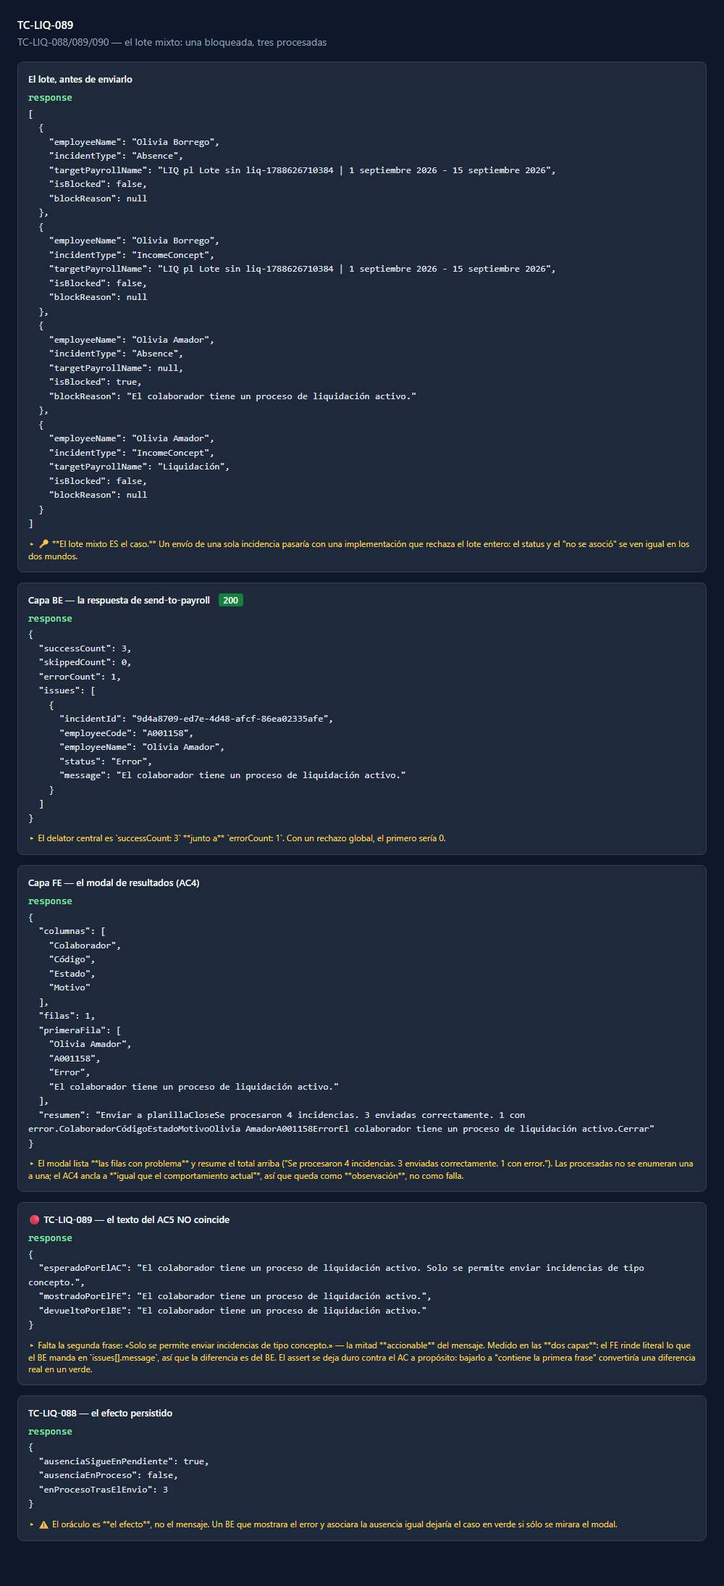
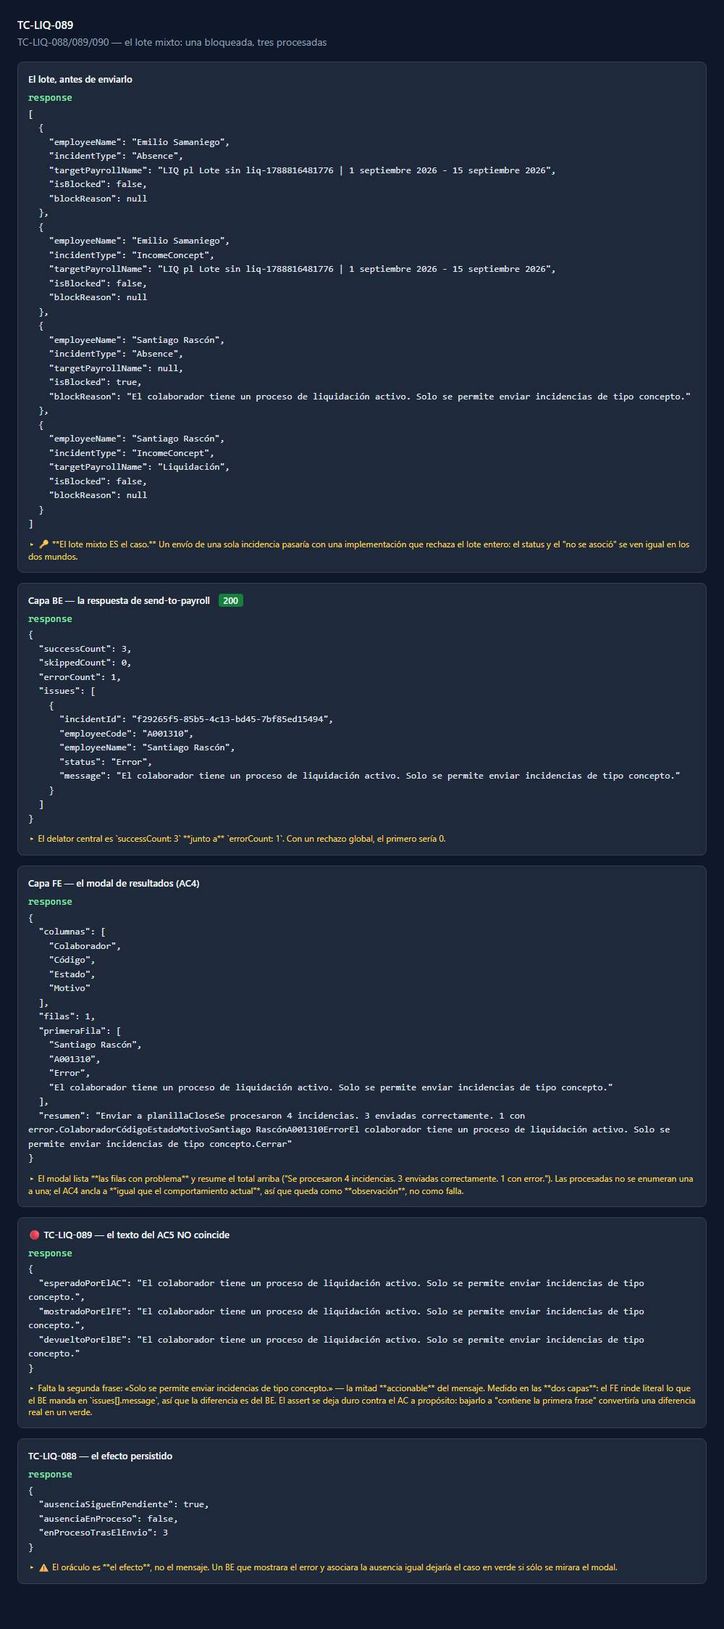
report(v16.5.0): TC-LIQ-089 pasa a verde tras REBU-6006 — 99 de 100
El motivo del bloqueo ya trae las dos frases del AC5, en el modal y en
issues[0].message. Se re-corrio el spec SIN modificarlo, para que el
veredicto viniera del mismo oraculo que produjo el rojo.

Y se pone al dia la bandeja del analisis REBU-5966, que habia quedado
desfasada: los 11 escenarios sin automatizar van a Backlog y no a
Finalizada, el bloqueo de TC-LIQ-082/083 esta resuelto, y el unico
defecto vivo es REBU-6027.

diff --git a/index.html b/index.html
@@ -124,18 +124,18 @@
 </header>
 <div class="bandeja">
   <div class="summary">
-    <div class="card pass"><div class="card-value">98</div><div class="card-label">Pasaron</div></div>
-    <div class="card fail"><div class="card-value">2</div><div class="card-label">Fallaron</div></div>
+    <div class="card pass"><div class="card-value">99</div><div class="card-label">Pasaron</div></div>
+    <div class="card fail"><div class="card-value">1</div><div class="card-label">Fallaron</div></div>
     <div class="card total"><div class="card-value">100</div><div class="card-label">Total <span style="font-size:10px;opacity:.75">(2 an&#225;lisis: 5966 &middot; 5969)</span></div></div>
     <div class="card time"><div class="card-value">~36 m</div><div class="card-label">Duraci&#243;n</div></div>
   </div>
 
 <div style="max-width:860px;margin:18px auto 0;padding:12px 16px;background:#fff6e5;border:1px solid #e8cf9a;border-radius:10px">
-  <div style="font-size:11px;font-weight:700;color:#8a5a12;text-transform:uppercase;letter-spacing:.5px;margin-bottom:6px">&#9888;&#65039; Release EN CURSO &mdash; 100 casos de los dos an&#225;lisis de la &#233;pica, con 2 rojos. Lo que falta est&#225; listado abajo</div>
+  <div style="font-size:11px;font-weight:700;color:#8a5a12;text-transform:uppercase;letter-spacing:.5px;margin-bottom:6px">&#9888;&#65039; Release EN CURSO &mdash; 100 casos de los dos an&#225;lisis de la &#233;pica, con 1 rojo. Lo que qued&#243; sin automatizar est&#225; listado abajo</div>
   <div style="font-size:11px;color:#6b4710;line-height:1.7">
-    &#201;ste <strong>no es un release cerrado</strong>. La &#233;pica <a class="jira-link" href="https://rebu.atlassian.net/browse/REBU-5629" target="_blank" rel="noopener">REBU-5629</a> &mdash;que elimina el estado &ldquo;Salida pendiente&rdquo; y deja al colaborador <strong>Activo mientras se liquida</strong>&mdash; se desglos&#243; en <strong>31 escenarios / 96 casos</strong> sobre las 9 HU con QA asignado a Jessica. Van <strong>21 escenarios y 56 casos: 54 verdes y 2 rojos</strong>. Los dos rojos son reales y est&#225;n explicados en su fila &mdash; ninguno se baj&#243; a verde para que la cuenta quedara limpia. Se publica parcial a prop&#243;sito, para que la evidencia se acumule por corrida y no de golpe al final.
+    &#201;ste <strong>no es un release cerrado</strong>. La &#233;pica <a class="jira-link" href="https://rebu.atlassian.net/browse/REBU-5629" target="_blank" rel="noopener">REBU-5629</a> &mdash;que elimina el estado &ldquo;Salida pendiente&rdquo; y deja al colaborador <strong>Activo mientras se liquida</strong>&mdash; se desglos&#243; en <strong>31 escenarios / 96 casos</strong> sobre las 9 HU con QA asignado a Jessica. Van <strong>20 escenarios y 56 casos: 55 verdes y 1 rojo</strong>, y con eso el ciclo de automatizaci&#243;n de este an&#225;lisis <strong>se cierra</strong>. El rojo que queda es real y est&#225; explicado en su fila &mdash; no se baj&#243; a verde para que la cuenta quedara limpia. Y el que estuvo rojo hasta ayer, <code>TC-LIQ-089</code>, <strong>se re-corri&#243; tras el fix con el spec sin modificar</strong>: no se hered&#243; el verde del estado del ticket del defecto.
     <br><br>
-    &#128203; <strong>Cubierto hasta ahora:</strong> <a class="jira-link" href="https://rebu.atlassian.net/browse/REBU-5634" target="_blank" rel="noopener">REBU-5634</a> completa (edici&#243;n del perfil durante la liquidaci&#243;n, 15 casos), <a class="jira-link" href="https://rebu.atlassian.net/browse/REBU-5636" target="_blank" rel="noopener">REBU-5636</a> <strong>completa</strong> (c&#237;clicos, 24 de 24), <a class="jira-link" href="https://rebu.atlassian.net/browse/REBU-5637" target="_blank" rel="noopener">REBU-5637</a> <strong>completa</strong> (incidencias hacia la liquidaci&#243;n, 11 de 11 &mdash; 10 verdes y 1 rojo), <a class="jira-link" href="https://rebu.atlassian.net/browse/REBU-5644" target="_blank" rel="noopener">REBU-5644</a> (Mi Perfil no expone la fecha, 3 de 4) y <a class="jira-link" href="https://rebu.atlassian.net/browse/REBU-5785" target="_blank" rel="noopener">REBU-5785</a> (la pill, 2).<br><br>&#128273; <strong>Se destrabaron los dos escenarios que depend&#237;an de una credencial.</strong> QA facilit&#243; un usuario colaborador y le dej&#243; <strong>un solo rol</strong>, que es justo lo que exige la regla del BE. Con eso <strong>QAUTO-990 y QAUTO-991</strong> pasaron de bloqueados a ejecutados. Esos escenarios <strong>desvinculan a ese usuario y lo restauran</strong> en un <code>finally</code> con verificaci&#243;n &mdash; dejarlo desvinculado romper&#237;a la credencial para toda la suite.<br><br>&#129001; <strong>La otra mitad de la &#233;pica &mdash; las 5 HU con QA asignado a Rollffin</strong> (<a class="jira-link" href="https://rebu.atlassian.net/browse/REBU-5969" target="_blank" rel="noopener">REBU-5969</a>): <strong>38 casos, los 38 verdes</strong>. Cubre el modelo de estados completo &mdash;los cuatro caminos de elegibilidad, el prorrateo y la reversi&#243;n&mdash;, el subtab Desvinculaci&#243;n, la pasada de UI del perfil y el filtro de Estado de los seis reportes, que ven&#237;a con <strong>cobertura cero</strong>. <strong>REBU-5630, 5631, 5632 y 5788 quedan certificadas.</strong> De ah&#237; salieron dos mediciones que cambian c&#243;mo se lee la &#233;pica: el peor modo de falla de REBU-5788 &mdash;que un reporte con la etiqueta retirada mostrara <em>toda</em> la poblaci&#243;n, inactivos incluidos, en una vista con salarios&mdash; qued&#243; <strong>descartado con n&#250;meros</strong> (da 1145, el conjunto Activo, no 1190); y la l&#237;nea base del backfill de REBU-5783 ya est&#225; tomada en <strong>producci&#243;n co.21</strong>: 41 candidatos con su liquidaci&#243;n concepto por concepto y el Excel del finiquito. Esa HU se certifica el d&#237;a del pase, no antes. Un defecto reportado: <a class="jira-link" href="https://rebu.atlassian.net/browse/REBU-6007" target="_blank" rel="noopener">REBU-6007</a>.<br><br>&#128308; <strong>Lo que NO est&#225; cubierto todav&#237;a, con su ticket:</strong> de REBU-5636 falta <strong>medio escenario</strong> &mdash; <a class="jira-link" href="https://rebu.atlassian.net/browse/QAUTO-984" target="_blank" rel="noopener">QAUTO-984</a> entreg&#243; 2 de sus 4 casos: <code>TC-LIQ-084</code> (no admite ajuste) y <code>TC-LIQ-137</code> (no admite borrado) est&#225;n verdes, pero <code>TC-LIQ-082</code> y <code>TC-LIQ-083</code> (<strong>pausar / finalizar</strong>, AC8) siguen sin or&#225;culo: no se logr&#243; capturar el contrato de cambio de estado &mdash;detalle abajo&mdash;. De REBU-5637 faltan 3 escenarios (<a class="jira-link" href="https://rebu.atlassian.net/browse/QAUTO-987" target="_blank" rel="noopener">QAUTO-987</a>, <a class="jira-link" href="https://rebu.atlassian.net/browse/QAUTO-988" target="_blank" rel="noopener">988</a>, <a class="jira-link" href="https://rebu.atlassian.net/browse/QAUTO-989" target="_blank" rel="noopener">989</a>). Y sin arrancar: <a class="jira-link" href="https://rebu.atlassian.net/browse/REBU-5633" target="_blank" rel="noopener">REBU-5633</a> (rec&#225;lculo, 6 escenarios), <a class="jira-link" href="https://rebu.atlassian.net/browse/REBU-5635" target="_blank" rel="noopener">5635</a>, <a class="jira-link" href="https://rebu.atlassian.net/browse/REBU-5789" target="_blank" rel="noopener">5789</a> y <a class="jira-link" href="https://rebu.atlassian.net/browse/REBU-5816" target="_blank" rel="noopener">5816</a>.<br><br>&#128679; <strong>Lo que sigue bloqueado, y por qu&#233;.</strong> <strong><code>TC-LIQ-082</code> y <code>TC-LIQ-083</code></strong> necesitan del desarrollo la <strong>ruta y el cuerpo del cambio de estado de un c&#237;clico</strong> (pausar / finalizar). Lo medido, para no repetir camino: el detalle de la fila en el perfil ofrece <strong>s&#243;lo &ldquo;Editar&rdquo;</strong>, y ese modal trae concepto, frecuencia, per&#237;odo y rangos &mdash;ning&#250;n control de estado&mdash;; <code>PATCH /people-cyclics/{id}</code> con <code>{status:&quot;Paused&quot;}</code> responde <strong>204 y NO persiste</strong> (sigue <code>Active</code>), as&#237; que un caso que mirara el 204 <strong>dar&#237;a verde sin pausar nada</strong>; y <code>/people-deductions/{handle}/status</code> y variantes dan 404. Los tres sondeos quedaron versionados con lo medido.<br><br>El <strong>AC5 de REBU-5816</strong> contradice al commit <code>4fe39d629</code> &mdash;las dos cosas no pueden ser ciertas&mdash; y necesita decisi&#243;n de producto antes de poder escribir su or&#225;culo. <strong><code>TC-LIQ-098</code></strong> ya <strong>no</strong> est&#225; bloqueado por credencial sino por el <strong>tipo de contrataci&#243;n</strong>: el usuario disponible es <em>Empleado</em>, y el AC2 dice que <code>dateOfLeaving</code> y <code>contractorEndDate</code> son <strong>dos campos distintos</strong> &mdash; hace falta un <strong>contratista de rol &#250;nico</strong>. Y la <strong>rama fuerte de QAUTO-991</strong> &mdash;colaborador de <strong>doble rol</strong>, la &#250;nica que a&#237;sla el gate del FE&mdash; espera un usuario con un segundo rol; el spec ya la detecta y la reporta sola al re-ejecutarse.
+    &#128203; <strong>Cubierto hasta ahora:</strong> <a class="jira-link" href="https://rebu.atlassian.net/browse/REBU-5634" target="_blank" rel="noopener">REBU-5634</a> completa (edici&#243;n del perfil durante la liquidaci&#243;n, 15 casos), <a class="jira-link" href="https://rebu.atlassian.net/browse/REBU-5636" target="_blank" rel="noopener">REBU-5636</a> <strong>completa</strong> (c&#237;clicos, 24 de 24), <a class="jira-link" href="https://rebu.atlassian.net/browse/REBU-5637" target="_blank" rel="noopener">REBU-5637</a> <strong>completa</strong> (incidencias hacia la liquidaci&#243;n, 11 de 11, <strong>las 11 verdes</strong>), <a class="jira-link" href="https://rebu.atlassian.net/browse/REBU-5644" target="_blank" rel="noopener">REBU-5644</a> (Mi Perfil no expone la fecha, 3 de 4) y <a class="jira-link" href="https://rebu.atlassian.net/browse/REBU-5785" target="_blank" rel="noopener">REBU-5785</a> (la pill, 2).<br><br>&#128273; <strong>Se destrabaron los dos escenarios que depend&#237;an de una credencial.</strong> QA facilit&#243; un usuario colaborador y le dej&#243; <strong>un solo rol</strong>, que es justo lo que exige la regla del BE. Con eso <strong>QAUTO-990 y QAUTO-991</strong> pasaron de bloqueados a ejecutados. Esos escenarios <strong>desvinculan a ese usuario y lo restauran</strong> en un <code>finally</code> con verificaci&#243;n &mdash; dejarlo desvinculado romper&#237;a la credencial para toda la suite.<br><br>&#129001; <strong>La otra mitad de la &#233;pica &mdash; las 5 HU con QA asignado a Rollffin</strong> (<a class="jira-link" href="https://rebu.atlassian.net/browse/REBU-5969" target="_blank" rel="noopener">REBU-5969</a>): <strong>38 casos, los 38 verdes</strong>. Cubre el modelo de estados completo &mdash;los cuatro caminos de elegibilidad, el prorrateo y la reversi&#243;n&mdash;, el subtab Desvinculaci&#243;n, la pasada de UI del perfil y el filtro de Estado de los seis reportes, que ven&#237;a con <strong>cobertura cero</strong>. <strong>REBU-5630, 5631, 5632 y 5788 quedan certificadas.</strong> De ah&#237; salieron dos mediciones que cambian c&#243;mo se lee la &#233;pica: el peor modo de falla de REBU-5788 &mdash;que un reporte con la etiqueta retirada mostrara <em>toda</em> la poblaci&#243;n, inactivos incluidos, en una vista con salarios&mdash; qued&#243; <strong>descartado con n&#250;meros</strong> (da 1145, el conjunto Activo, no 1190); y la l&#237;nea base del backfill de REBU-5783 ya est&#225; tomada en <strong>producci&#243;n co.21</strong>: 41 candidatos con su liquidaci&#243;n concepto por concepto y el Excel del finiquito. Esa HU se certifica el d&#237;a del pase, no antes. Un defecto reportado: <a class="jira-link" href="https://rebu.atlassian.net/browse/REBU-6007" target="_blank" rel="noopener">REBU-6007</a>.<br><br>&#128308; <strong>Lo que qued&#243; sin automatizar, con su ticket:</strong> <strong>11 de los 31 escenarios</strong>, todos devueltos a <strong>Backlog</strong> &mdash;no a Finalizada&mdash; a prop&#243;sito: marcar <em>Listo</em> un escenario que nunca se ejecut&#243; lo vuelve indistinguible de cobertura real dentro de unos meses. Son <a class="jira-link" href="https://rebu.atlassian.net/browse/REBU-5633" target="_blank" rel="noopener">REBU-5633</a> (rec&#225;lculo y men&#250; de tres puntos, 6 escenarios), <a class="jira-link" href="https://rebu.atlassian.net/browse/REBU-5816" target="_blank" rel="noopener">5816</a> (matriz de destino de la incidencia, 3), <a class="jira-link" href="https://rebu.atlassian.net/browse/REBU-5635" target="_blank" rel="noopener">5635</a> y <a class="jira-link" href="https://rebu.atlassian.net/browse/REBU-5789" target="_blank" rel="noopener">5789</a> (1 cada una). Las otras cinco HU quedan <strong>completas</strong>: 5634, 5636, 5637, 5644 y 5785. La cuenta completa de la deuda est&#225; en <a class="jira-link" href="https://rebu.atlassian.net/browse/REBU-5966" target="_blank" rel="noopener">REBU-5966</a>.<br><br>&#9989; <strong>El bloqueo de <code>TC-LIQ-082</code> y <code>TC-LIQ-083</code> se resolvi&#243;, y los dos quedaron verdes.</strong> El contrato que faltaba es <code>PATCH /people-cyclics/{transactionId}/change-status</code> con <code>{reason, status}</code>, el estado <strong>num&#233;rico</strong>. No es <code>PATCH /people-cyclics/{id}</code> a secas: esa ruta acepta <code>{status:&quot;Paused&quot;}</code>, responde <strong>204 y NO persiste</strong> (sigue <code>Active</code>), as&#237; que un caso que mirara ese 204 <strong>habr&#237;a dado verde sin pausar nada</strong>. Y el AC8 se cumple <strong>literalmente</strong>: la l&#237;nea sale <strong>al recalcular</strong>, no antes &mdash; medido en tres momentos ($50 &rarr; pausado sin recalcular, $50 &rarr; pausado y recalculado, ya no est&#225;).<br><br>&#128308; <strong>El &#250;nico defecto vivo de esta mitad de la &#233;pica es <a class="jira-link" href="https://rebu.atlassian.net/browse/REBU-6027" target="_blank" rel="noopener">REBU-6027</a></strong>, y est&#225; rotulado <code>[MAIN]</code>, no UAT: la Fecha de Egreso se le muestra al propio colaborador cuando su rol no es Colaborador (incumple el AC1 de REBU-5644). Los otros siete &mdash;5982, 5983, 5984, 6002, 6004, 6006 y 6009&mdash; est&#225;n corregidos; <strong>REBU-6004</strong> (recalcular con un c&#237;clico de PGR devolv&#237;a 500) se <strong>re-verific&#243; el 07-09</strong> con el sondeo original sin tocarlo: las cuatro variantes en 204.<br><br>El <strong>AC5 de REBU-5816</strong> contradice al commit <code>4fe39d629</code> &mdash;las dos cosas no pueden ser ciertas&mdash; y necesita decisi&#243;n de producto antes de poder escribir su or&#225;culo. <strong><code>TC-LIQ-098</code></strong> ya <strong>no</strong> est&#225; bloqueado por credencial sino por el <strong>tipo de contrataci&#243;n</strong>: el usuario disponible es <em>Empleado</em>, y el AC2 dice que <code>dateOfLeaving</code> y <code>contractorEndDate</code> son <strong>dos campos distintos</strong> &mdash; hace falta un <strong>contratista de rol &#250;nico</strong>. Y la <strong>rama fuerte de QAUTO-991</strong> &mdash;colaborador de <strong>doble rol</strong>, la &#250;nica que a&#237;sla el gate del FE&mdash; espera un usuario con un segundo rol; el spec ya la detecta y la reporta sola al re-ejecutarse.
   </div>
 </div>
 
@@ -308,8 +308,8 @@
 <tr class="detail-row"><td colspan="3"><table class="case-steps"><tr><th>Documentado en</th><td><a class="jira-link" href="https://rebu.atlassian.net/browse/QAUTO-986" target="_blank" rel="noopener">QAUTO-986</a> &middot; caso <code>TC-LIQ-087</code> &middot; <em>E2E-INT-016</em></td></tr><tr><th>Precondiciones</th><td>La misma liquidación de TC-LIQ-086, con la incidencia ya enviada.</td></tr><tr><th>Regla evaluada</th><td>AC1, textual: <em>&ldquo;igual que cualquier otro concepto agregado manualmente, <strong>sin ninguna marca</strong>&rdquo;</em>. Es <strong>lo contrario</strong> del ícono del cíclico (<code>E2E-INT-014</code>), que sí debe marcarse.</td></tr><tr><th>Setup</th><td>Ninguno adicional.</td></tr><tr><th>Pasos</th><td>1. Barrer <strong>todas</strong> las claves y valores de la línea buscando cualquiera que delate procedencia (<code>/incidenc|incident/i</code>).<br>2. Verificar que <code>isCyclic</code> sea <code>false</code> &mdash; si llegara <code>true</code>, la UI le pondría el ícono del cíclico, que es justo la marca que el AC prohíbe.</td></tr><tr><th>Resultado esperado</th><td>Cero marcas.</td></tr><tr><th>Resultado obtenido</th><td>Marcas encontradas: <strong><code>[]</code></strong> &middot; <code>isCyclic: false</code>.</td></tr><tr><th>Nota</th><td>⚠ <strong>Límite del oráculo, dicho:</strong> esto prueba que no hay marca <strong>a nivel de campo</strong>. La paridad exacta contra un concepto agregado <em>a mano</em> exigiría crear uno manual y comparar, y ese endpoint todavía no está en la suite.<br><br>Tiene consecuencia aguas abajo: por la tabla de preservación, esta línea debe preservarse íntegra al recalcular &mdash; ese caso es <code>TC-LIQ-049</code> y <strong>depende de este escenario</strong> para su setup.</td></tr><tr><th>Evidencia</th><td><div style="display:flex;gap:12px;flex-wrap:wrap;padding:4px 0"><div style="flex:1;min-width:220px"><div style="font-size:10px;font-weight:700;color:#284b44;letter-spacing:.5px;text-transform:uppercase;margin-bottom:6px">01 &mdash; TC-LIQ-086/087 — la incidencia de Concepto aterriza en la liquidación 1253, sin marca</div><img src="assets/v16.5.0/uat/TC-LIQ-087/01.jpg" style="max-width:100%;border-radius:6px;border:1px solid #d4e8d0;box-shadow:0 1px 4px rgba(0,0,0,.08)" /></div></div></td></tr><tr><th>Status</th><td><span class="badge-pass">PASS</span></td></tr></table></td></tr>
 <tr class="test-row" onclick="toggleDetail(this)"><td class="test-id">TC-LIQ-088</td><td><div class="test-name">La incidencia de <strong>Ausencia</strong> de un colaborador en liquidaci&#243;n <strong>se bloquea</strong></div><div class="test-tags"><span class="tag tag-val">@api</span><span class="tag tag-val">@ui</span><span class="tag tag-val">@liquidaciones</span><span class="tag tag-val">@incidencias</span><span class="tag tag-val">@critical</span></div></td><td class="status-cell"><span class="badge-pass">PASS</span></td></tr>
 <tr class="detail-row"><td colspan="3"><table class="case-steps"><tr><th>Documentado en</th><td><a class="jira-link" href="https://rebu.atlassian.net/browse/QAUTO-987" target="_blank" rel="noopener">QAUTO-987</a> &middot; caso <code>TC-LIQ-088</code> &middot; <em>E2E-INT-017</em></td></tr><tr><th>Precondici&#243;n</th><td>Un lote <strong>mixto</strong> de 4 incidencias: colaborador <em>con</em> liquidaci&#243;n (Concepto + Ausencia) y colaborador <em>sin</em> liquidaci&#243;n (Concepto + Ausencia).</td></tr><tr><th>Regla evaluada</th><td>REBU-5637 <strong>AC2</strong>: s&#243;lo las incidencias de tipo <strong>Concepto</strong> llegan a una liquidaci&#243;n; las de <strong>Ausencia</strong> se rechazan.</td></tr><tr><th>&#9888;&#65039; La precondici&#243;n que ya dio un resultado falso</th><td>El tipo de ausencia tiene que <strong>&ldquo;Afectar planilla&rdquo;</strong> (<code>deductsWorkedDays</code>). Con uno que no, la incidencia <strong>nunca llega a Preregistradas</strong> y &ldquo;no se asoci&#243;&rdquo; ser&#237;a cierto <strong>por el motivo equivocado</strong>. En la empresa 2 s&#243;lo <em>Incapacidad</em> lo cumple.</td></tr><tr><th>&#128273; El or&#225;culo es el EFECTO, no el mensaje</th><td>No se conforma con leer el error: comprueba que la ausencia <strong>siga en Pendiente</strong> y <strong>no</strong> haya pasado a &ldquo;En proceso&rdquo;. Un BE que mostrara el mensaje y la asociara igual dejar&#237;a el caso en verde si s&#243;lo se mirara el texto del modal.</td></tr><tr><th>Resultado obtenido</th><td>La ausencia bloqueada <strong>sigue en Pendiente</strong> con <code>isBlocked: true</code>; <strong>no</strong> aparece en &ldquo;En proceso&rdquo;. Las otras <strong>tres s&#237;</strong> pasaron &#9989;.</td></tr><tr><th>Status</th><td><span class="badge-pass">PASS</span></td></tr></table></td></tr>
-<tr class="test-row" onclick="toggleDetail(this)"><td class="test-id">TC-LIQ-089</td><td><div class="test-name">El motivo mostrado <strong>no coincide con el texto del AC</strong>: falta la segunda frase</div><div class="test-tags"><span class="tag tag-val">@ui</span><span class="tag tag-val">@liquidaciones</span><span class="tag tag-val">@incidencias</span></div></td><td class="status-cell"><span class="badge-fail">FAIL</span></td></tr>
-<tr class="detail-row"><td colspan="3"><table class="case-steps"><tr><th>Documentado en</th><td><a class="jira-link" href="https://rebu.atlassian.net/browse/QAUTO-987" target="_blank" rel="noopener">QAUTO-987</a> &middot; caso <code>TC-LIQ-089</code> &middot; <em>E2E-INT-017</em></td></tr><tr><th>Regla evaluada</th><td>REBU-5637 <strong>AC5</strong>: el motivo es <strong>un &#250;nico mensaje</strong>, con el texto exacto.</td></tr><tr><th>Resultado esperado</th><td>&laquo;<em>El colaborador tiene un proceso de liquidaci&#243;n activo. <strong>Solo se permite enviar incidencias de tipo concepto.</strong></em>&raquo;</td></tr><tr><th>Resultado obtenido</th><td>&laquo;<em>El colaborador tiene un proceso de liquidaci&#243;n activo.</em>&raquo; &#128308;<br><br>Medido en las <strong>dos capas</strong>: el FE rinde literal lo que el BE manda en <code>issues[].message</code>, as&#237; que la diferencia es <strong>del BE</strong>.</td></tr><tr><th>Lo que s&#237; se cumple</th><td>El motivo se muestra <strong>una sola vez</strong>, no repetido por cada incidencia del lote &#9989;. Esa mitad del AC est&#225; bien.</td></tr><tr><th>&#128273; Por qu&#233; se deja en rojo</th><td>Bajar el assert a &ldquo;contiene la primera frase&rdquo; convertir&#237;a una diferencia real en un verde. Y lo que falta no es decorativo: es la mitad <strong>accionable</strong>, la que le dice al usuario <em>qu&#233; s&#237; puede enviar</em>.</td></tr><tr><th>Evidencia</th><td><div style="display:flex;gap:12px;flex-wrap:wrap;padding:4px 0"><div style="flex:1;min-width:220px"><div style="font-size:10px;font-weight:700;color:#284b44;letter-spacing:.5px;text-transform:uppercase;margin-bottom:6px">01 &mdash; El lote mixto: una bloqueada, tres procesadas</div><img src="assets/v16.5.0/uat/TC-LIQ-089/01.jpg" style="max-width:100%;border-radius:6px;border:1px solid #d4e8d0;box-shadow:0 1px 4px rgba(0,0,0,.08)" /></div></div></td></tr><tr><th>Status</th><td><span class="badge-fail">FAIL</span></td></tr></table></td></tr>
+<tr class="test-row" onclick="toggleDetail(this)"><td class="test-id">TC-LIQ-089</td><td><div class="test-name">El motivo mostrado <strong>coincide con el texto completo del AC</strong>, en las dos capas</div><div class="test-tags"><span class="tag tag-val">@ui</span><span class="tag tag-val">@liquidaciones</span><span class="tag tag-val">@incidencias</span></div></td><td class="status-cell"><span class="badge-pass">PASS</span></td></tr>
+<tr class="detail-row"><td colspan="3"><table class="case-steps"><tr><th>Documentado en</th><td><a class="jira-link" href="https://rebu.atlassian.net/browse/QAUTO-987" target="_blank" rel="noopener">QAUTO-987</a> &middot; caso <code>TC-LIQ-089</code> &middot; <em>E2E-INT-017</em></td></tr><tr><th>Regla evaluada</th><td>REBU-5637 <strong>AC5</strong>: el motivo es <strong>un &#250;nico mensaje</strong>, con el texto exacto.</td></tr><tr><th>Resultado esperado</th><td>&laquo;<em>El colaborador tiene un proceso de liquidaci&#243;n activo. <strong>Solo se permite enviar incidencias de tipo concepto.</strong></em>&raquo;</td></tr><tr><th>Resultado obtenido</th><td>&laquo;<em>El colaborador tiene un proceso de liquidaci&#243;n activo. <strong>Solo se permite enviar incidencias de tipo concepto.</strong></em>&raquo; &#9989;<br><br>Id&#233;ntico en las <strong>dos capas</strong> &mdash;el modal del FE y el <code>issues[0].message</code> del BE&mdash; e id&#233;ntico al literal del AC5.</td></tr><tr><th>Lo que s&#237; se cumple</th><td>El motivo se muestra <strong>una sola vez</strong>, no repetido por cada incidencia del lote &#9989;. Esa mitad del AC est&#225; bien.</td></tr><tr><th>&#128273; De rojo a verde</th><td>Este caso <strong>estuvo en rojo del 05 al 07 de septiembre</strong>: el producto mostraba s&#243;lo la primera frase y faltaba la mitad <strong>accionable</strong>, la que le dice al usuario <em>qu&#233; s&#237; puede enviar</em>. Se levant&#243; como <a class="jira-link" href="https://rebu.atlassian.net/browse/REBU-6006" target="_blank" rel="noopener">REBU-6006</a> y el <strong>07-09</strong> se re-ejecut&#243; el spec <strong>sin modificarle una l&#237;nea</strong> &mdash;el assert sigue duro contra el literal del AC&mdash; para que el veredicto viniera del <strong>mismo or&#225;culo que produjo el rojo</strong>. Un caso reescrito para verificar su propio arreglo no prueba lo mismo.<br><br>Nunca se baj&#243; el assert a &ldquo;contiene la primera frase&rdquo;: eso habr&#237;a convertido una diferencia real en un verde.</td></tr><tr><th>Evidencia</th><td><div style="display:flex;gap:12px;flex-wrap:wrap;padding:4px 0"><div style="flex:1;min-width:220px"><div style="font-size:10px;font-weight:700;color:#284b44;letter-spacing:.5px;text-transform:uppercase;margin-bottom:6px">01 &mdash; Tras el fix: la ausencia bloqueada con el motivo completo, tres procesadas</div><img src="assets/v16.5.0/uat/TC-LIQ-089/01.jpg" style="max-width:100%;border-radius:6px;border:1px solid #d4e8d0;box-shadow:0 1px 4px rgba(0,0,0,.08)" /></div></div></td></tr><tr><th>Status</th><td><span class="badge-pass">PASS</span></td></tr></table></td></tr>
 <tr class="test-row" onclick="toggleDetail(this)"><td class="test-id">TC-LIQ-090</td><td><div class="test-name">El env&#237;o <strong>por lote</strong> informa <strong>fila por fila</strong></div><div class="test-tags"><span class="tag tag-val">@ui</span><span class="tag tag-val">@liquidaciones</span><span class="tag tag-val">@incidencias</span></div></td><td class="status-cell"><span class="badge-pass">PASS</span></td></tr>
 <tr class="detail-row"><td colspan="3"><table class="case-steps"><tr><th>Documentado en</th><td><a class="jira-link" href="https://rebu.atlassian.net/browse/QAUTO-987" target="_blank" rel="noopener">QAUTO-987</a> &middot; caso <code>TC-LIQ-090</code> &middot; <em>E2E-INT-017</em></td></tr><tr><th>Regla evaluada</th><td>REBU-5637 <strong>AC4</strong>: el modal de resultados muestra colaborador, c&#243;digo, estado y motivo.</td></tr><tr><th>&#128273; El lote mixto ES el caso</th><td>Un env&#237;o de <strong>una sola</strong> incidencia pasar&#237;a con una implementaci&#243;n que <strong>rechaza el lote entero</strong>: el status HTTP y el &ldquo;no se asoci&#243;&rdquo; se ven igual en los dos mundos. Por eso el delator central es <code>successCount: 3</code> <strong>junto a</strong> <code>errorCount: 1</code>.</td></tr><tr><th>Resultado obtenido</th><td>Modal con las columnas <strong>Colaborador &middot; C&#243;digo &middot; Estado &middot; Motivo</strong> y el resumen <em>&ldquo;Se procesaron 4 incidencias. 3 enviadas correctamente. 1 con error.&rdquo;</em> &#9989;<br>BE: <code>{successCount: 3, skippedCount: 0, errorCount: 1, issues: [&hellip;]}</code>.</td></tr><tr><th>Observaci&#243;n</th><td>El modal lista <strong>s&#243;lo las filas con problema</strong> y resume el total arriba; las procesadas no se enumeran una a una. El AC4 ancla a <em>&ldquo;igual que el comportamiento actual&rdquo;</em>, as&#237; que queda como <strong>observaci&#243;n</strong>, no como falla.</td></tr><tr><th>Evidencia</th><td><div style="display:flex;gap:12px;flex-wrap:wrap;padding:4px 0"><div style="flex:1;min-width:220px"><div style="font-size:10px;font-weight:700;color:#284b44;letter-spacing:.5px;text-transform:uppercase;margin-bottom:6px">01 &mdash; Las cuatro incidencias del lote mixto, seleccionadas</div><img src="assets/v16.5.0/uat/TC-LIQ-090/01.jpg" style="max-width:100%;border-radius:6px;border:1px solid #d4e8d0;box-shadow:0 1px 4px rgba(0,0,0,.08)" /></div><div style="flex:1;min-width:220px"><div style="font-size:10px;font-weight:700;color:#284b44;letter-spacing:.5px;text-transform:uppercase;margin-bottom:6px">02 &mdash; Modal de resultados del envio por lote</div><img src="assets/v16.5.0/uat/TC-LIQ-090/02.jpg" style="max-width:100%;border-radius:6px;border:1px solid #d4e8d0;box-shadow:0 1px 4px rgba(0,0,0,.08)" /></div></div></td></tr><tr><th>Status</th><td><span class="badge-pass">PASS</span></td></tr></table></td></tr>
 <tr class="test-row" onclick="toggleDetail(this)"><td class="test-id">TC-LIQ-091</td><td><div class="test-name">Concepto + liquidaci&#243;n pendiente &rarr; destino <strong>&ldquo;Liquidaci&#243;n&rdquo;</strong></div><div class="test-tags"><span class="tag tag-val">@api</span><span class="tag tag-val">@ui</span><span class="tag tag-val">@liquidaciones</span><span class="tag tag-val">@incidencias</span></div></td><td class="status-cell"><span class="badge-pass">PASS</span></td></tr>
